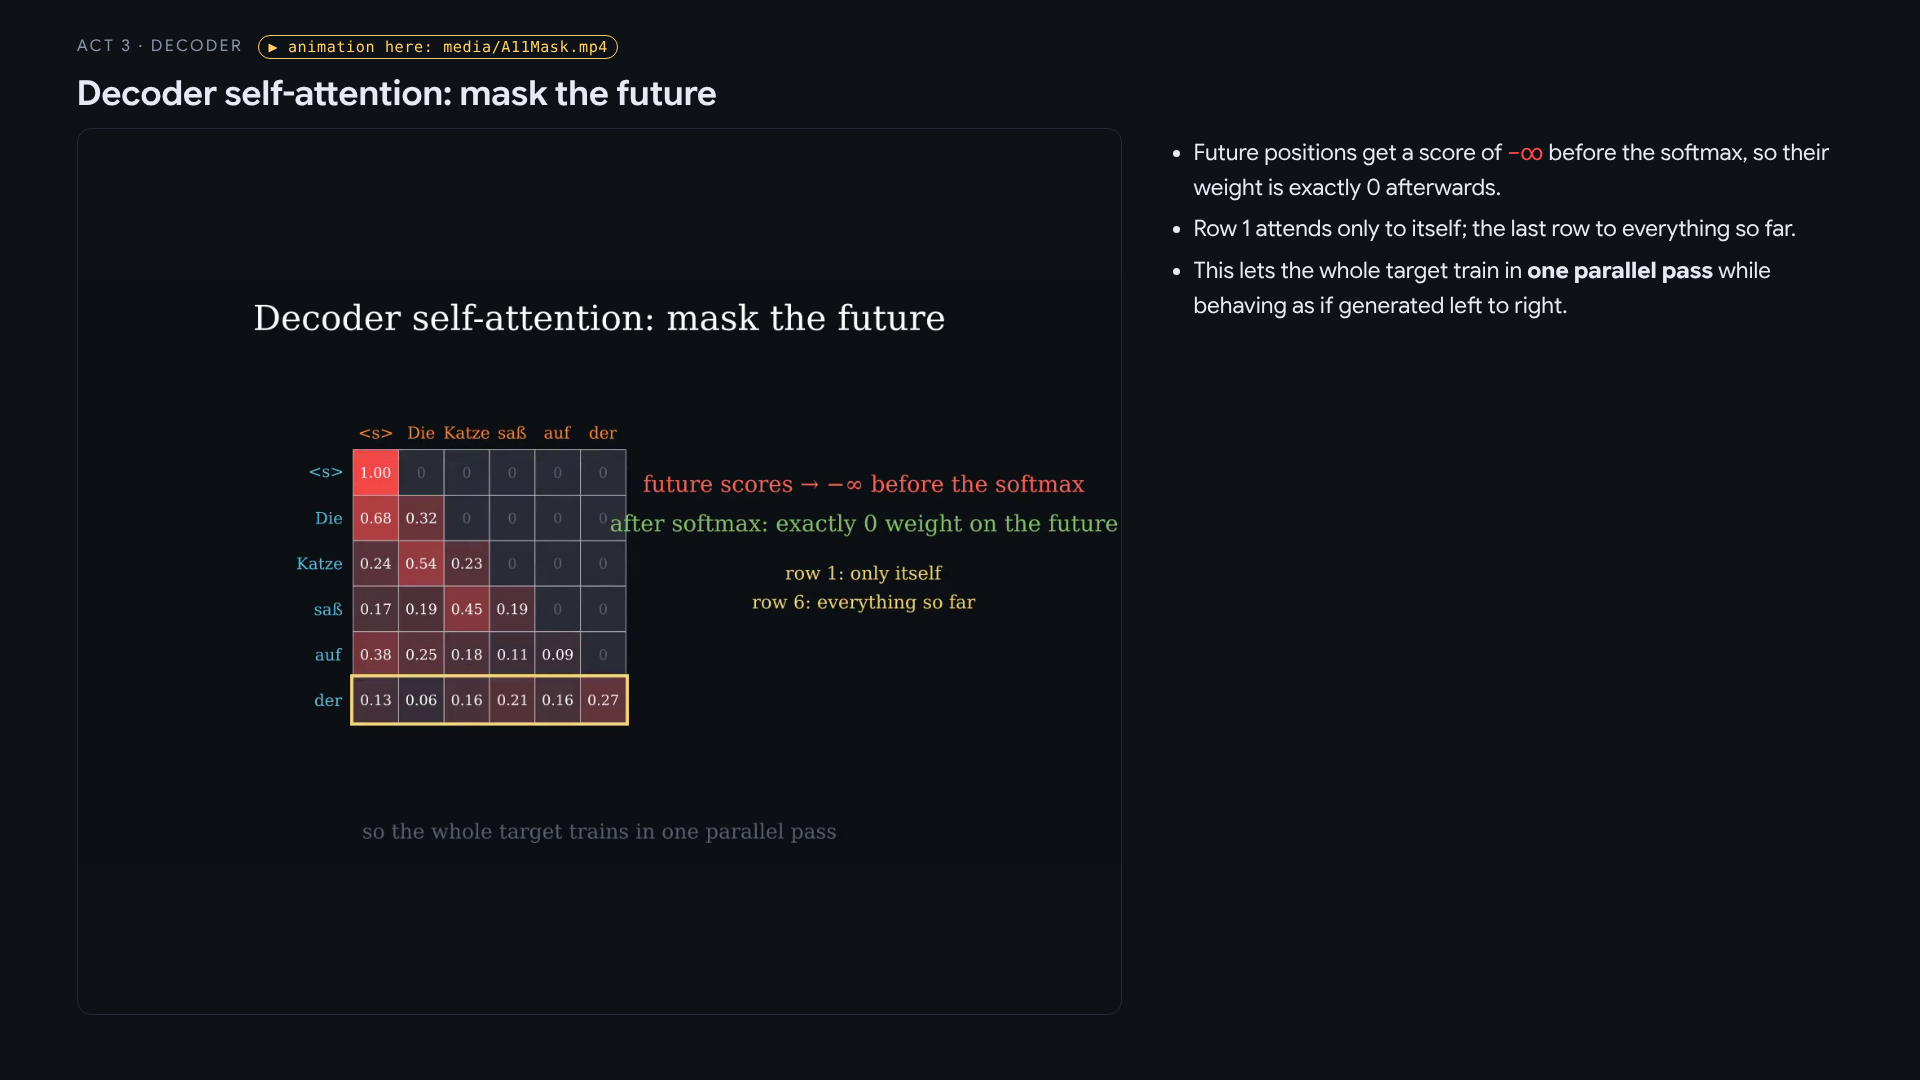
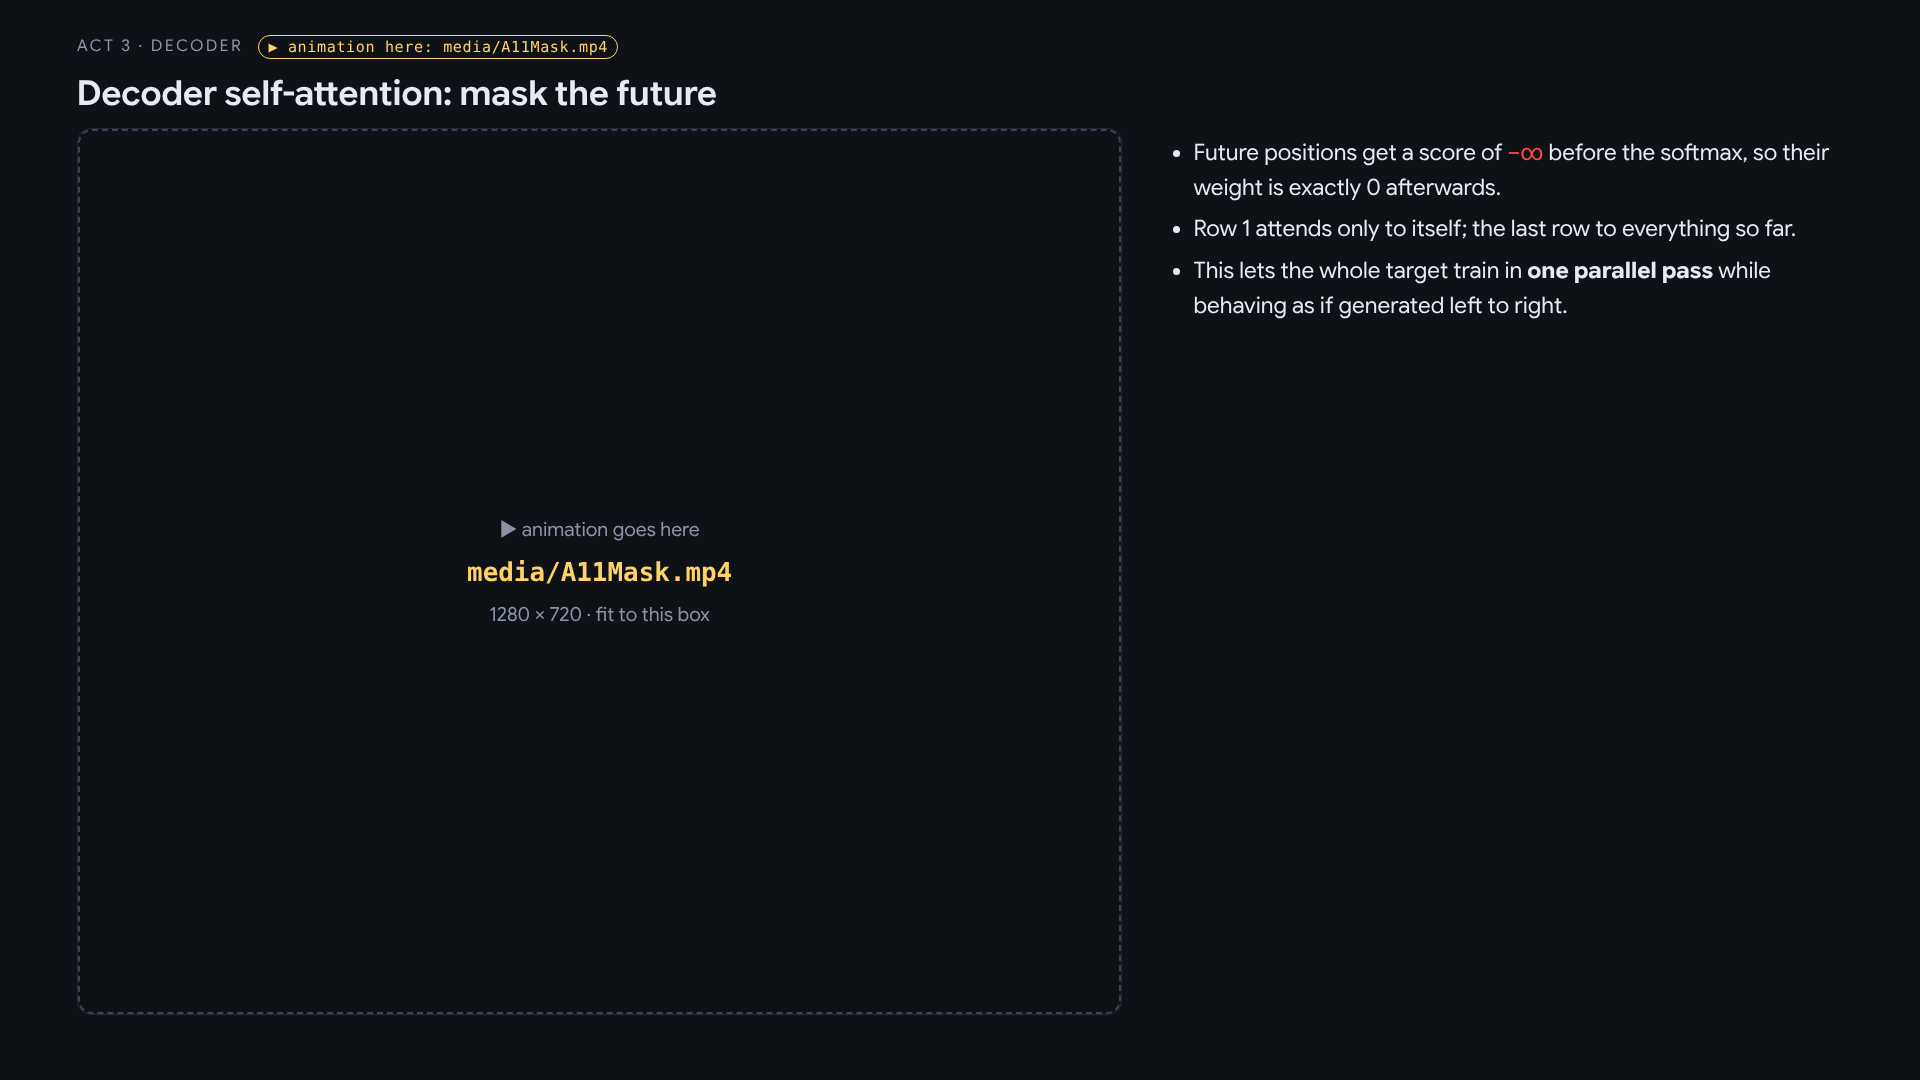
Make export/ the placeholder set; drop the separate export-blank folder
Claude-Session: https://claude.ai/code/session_013P1oFAkGwojaPVzYDUZFwd

diff --git a/lecture/slides/README.md b/lecture/slides/README.md
@@ -12,8 +12,7 @@ The videos in `media/` are rendered from `../manim/scenes.py` with `../manim/ren
 
 ## Exported images
 
-- `export/` — all 56 slides as 1920×1080 PNGs; animation slides show the clip's final frame.
-- `export-blank/` — the same 56 slides, but each animation slide has an empty dashed box naming the clip
-  to drop in (`media/<Scene>.mp4`). Use this set when rebuilding the deck in Keynote / PowerPoint / Google Slides.
+- `export/` — all 56 slides as 1920×1080 PNGs. Each animation slide has an empty dashed box naming the clip
+  to drop in (`media/<Scene>.mp4`), so the folder can be imported in order into Keynote / PowerPoint / Google Slides.
 - `figures/` — the nine static figures as PNG and SVG.
 - `media/` — the 18 animation clips (720p H.264, silent). Slide 55 lists where each one goes.
